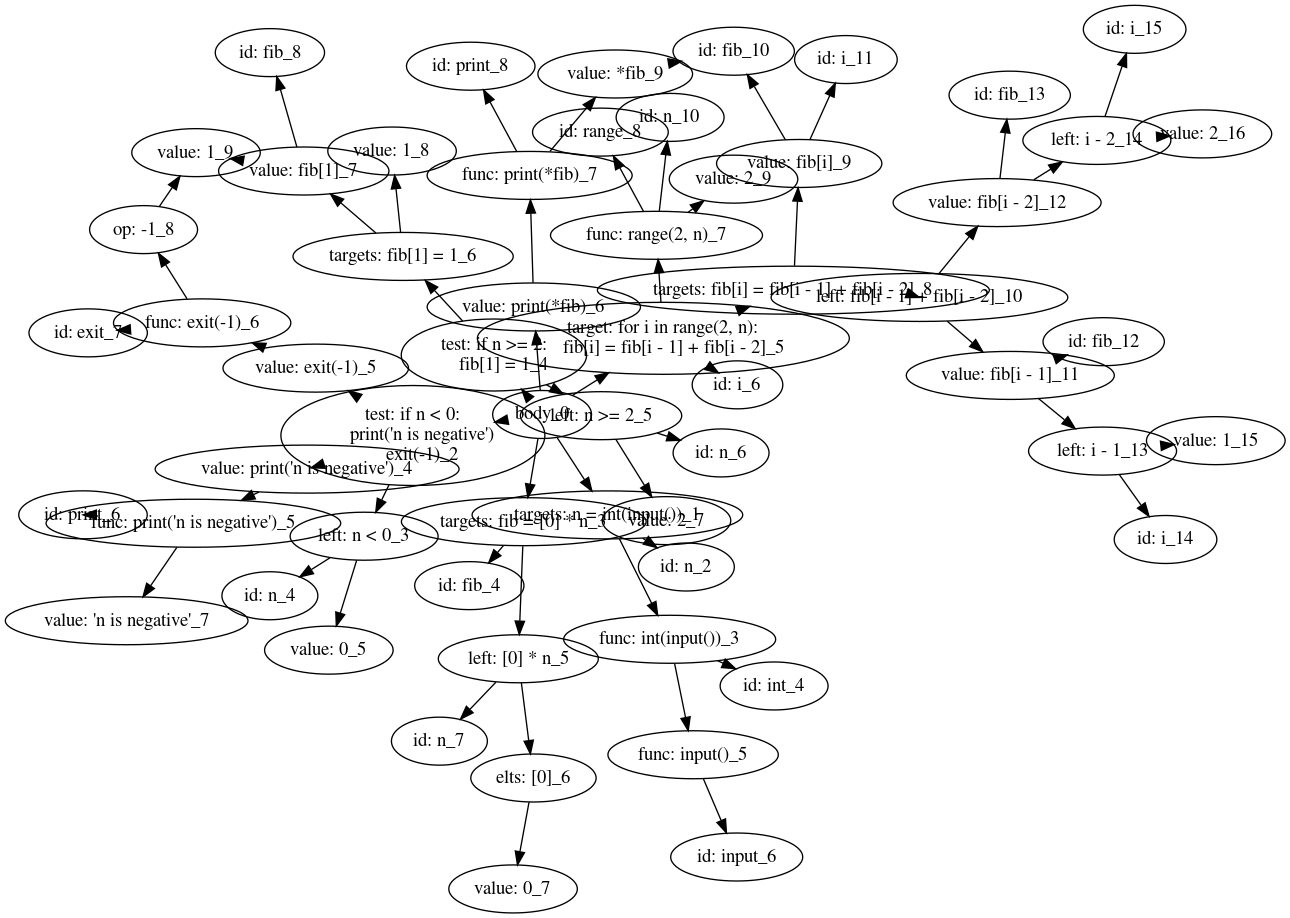
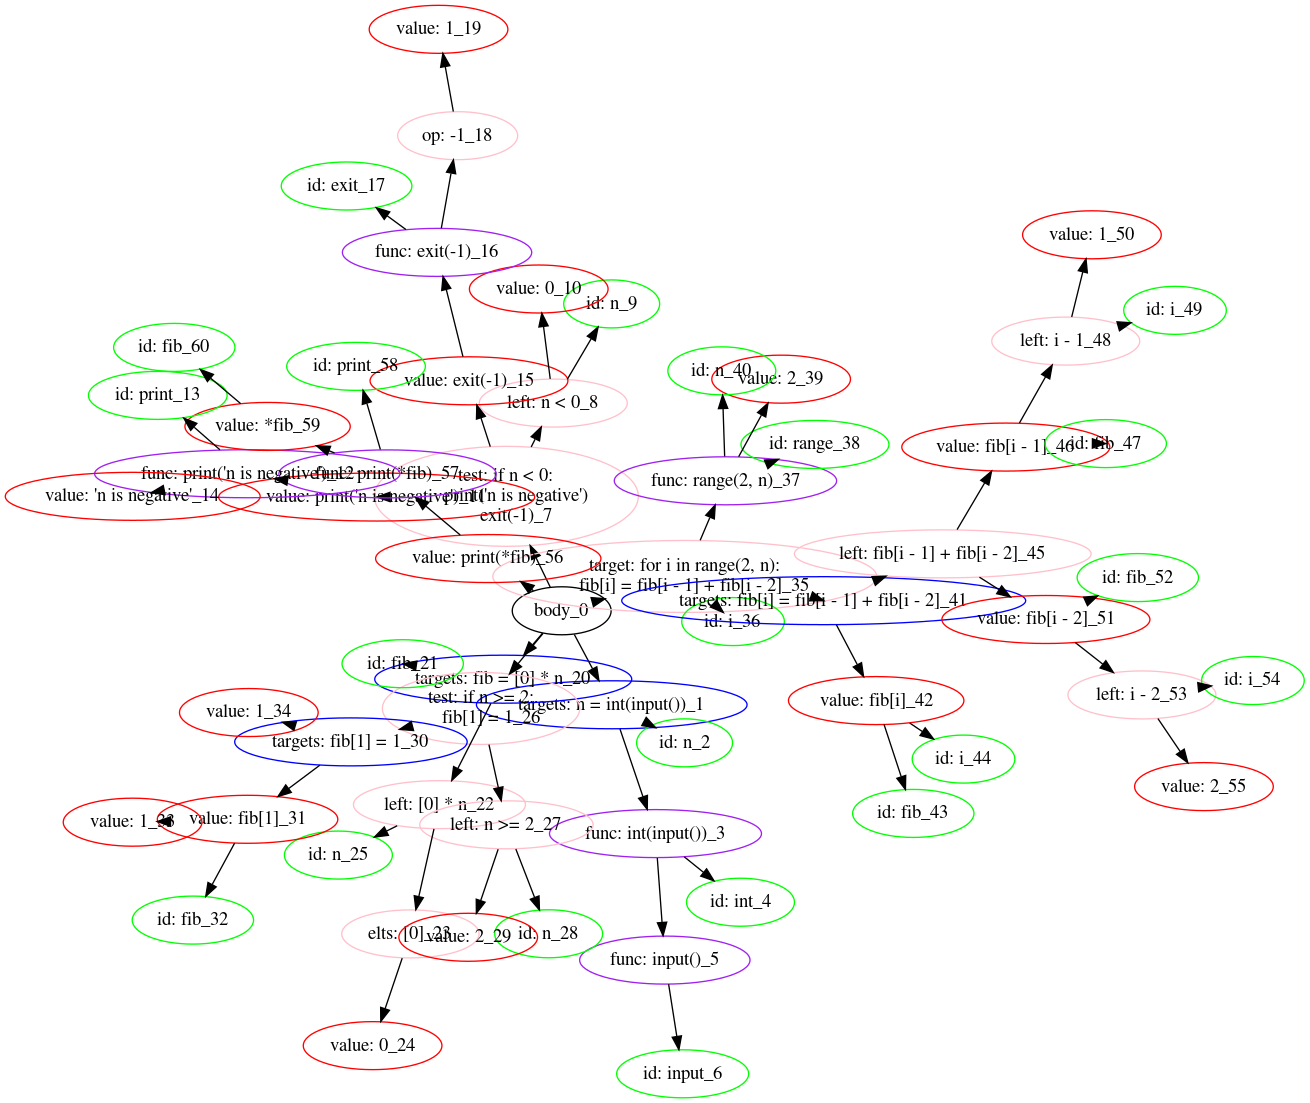
Add colors to nodes

diff --git a/hw1/Hard/pretty_ast_builder.py b/hw1/Hard/pretty_ast_builder.py
@@ -6,7 +6,7 @@ DEBUG = False
 with open('../Medium/simple.py' if DEBUG else '../Easy/fibonacci.py', 'r') as f:
     code = f.read()
 
-with open('../artifacts/Medium/' + ('simple_ast.out' if DEBUG else 'fibonacci_ast.out'), 'w') as f:
+with open('../artifacts/Hard/' + ('simple_ast.out' if DEBUG else 'fibonacci_ast.out'), 'w') as f:
     G = pgv.AGraph(directed=True)
 
     def get_label(ast_object, counter):
@@ -15,6 +15,14 @@ with open('../artifacts/Medium/' + ('simple_ast.out' if DEBUG else 'fibonacci_as
         if fields[0][0] != 'body':
             label += ': ' + ast.unparse(ast_object)
         label += '_' + str(counter)
+        color_type = {
+            'body': 'black',
+            'targets': 'blue',
+            'value': 'red',
+            'id': 'green',
+            'func': 'purple'
+        }
+        G.add_node(label, color=color_type.get(fields[0][0], 'pink'))
         return label, counter + 1
 
 
@@ -27,13 +35,13 @@ with open('../artifacts/Medium/' + ('simple_ast.out' if DEBUG else 'fibonacci_as
             if len([x for x in ast.iter_fields(child)]) > 0:
                 B, counter = get_label(child, counter)
                 G.add_edge(A, B)
-                dfs(child, tab + '\t', counter - 1)
+                counter = dfs(child, tab + '\t', counter - 1)
+        return counter
 
 
     ast_object = ast.parse(code)
 
-    counter = 0
-    dfs(ast_object, '', counter)
+    dfs(ast_object, '', 0)
 
     G.layout()
 
